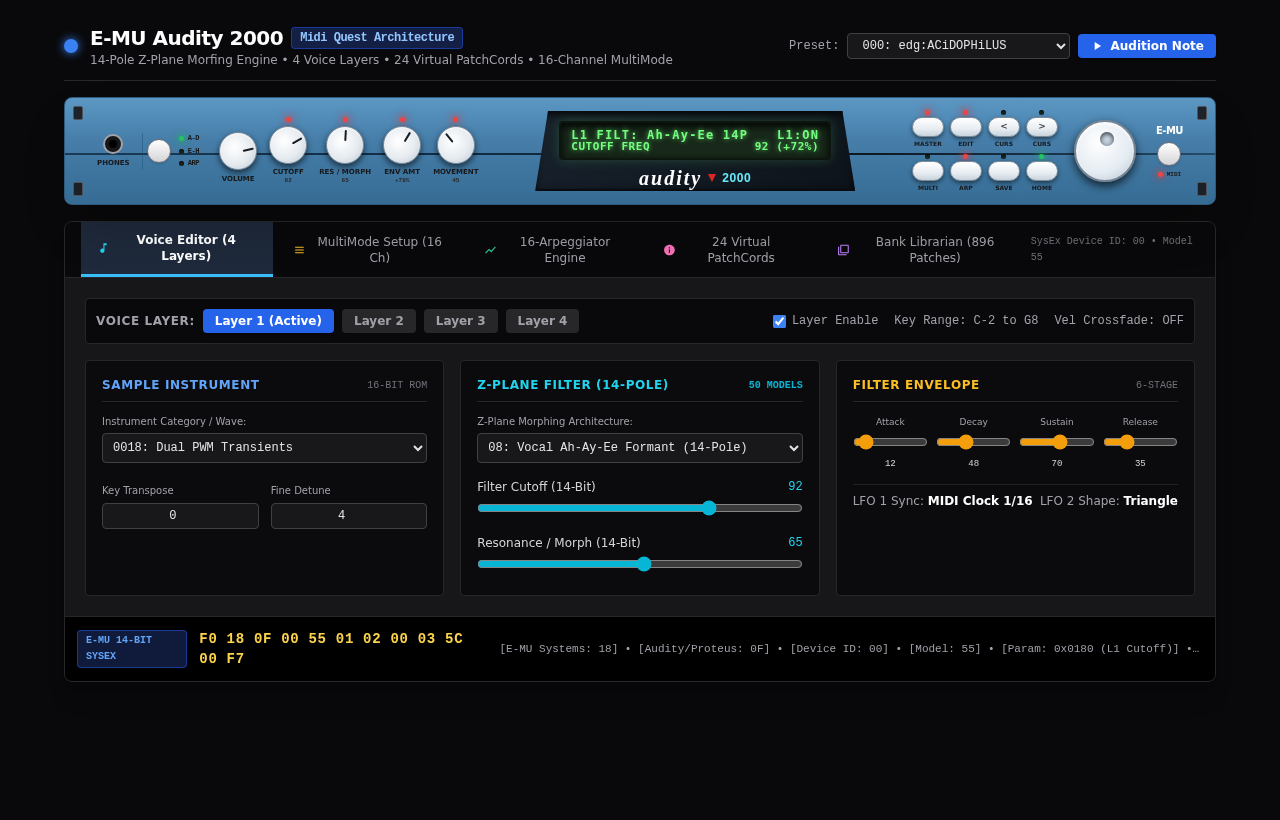
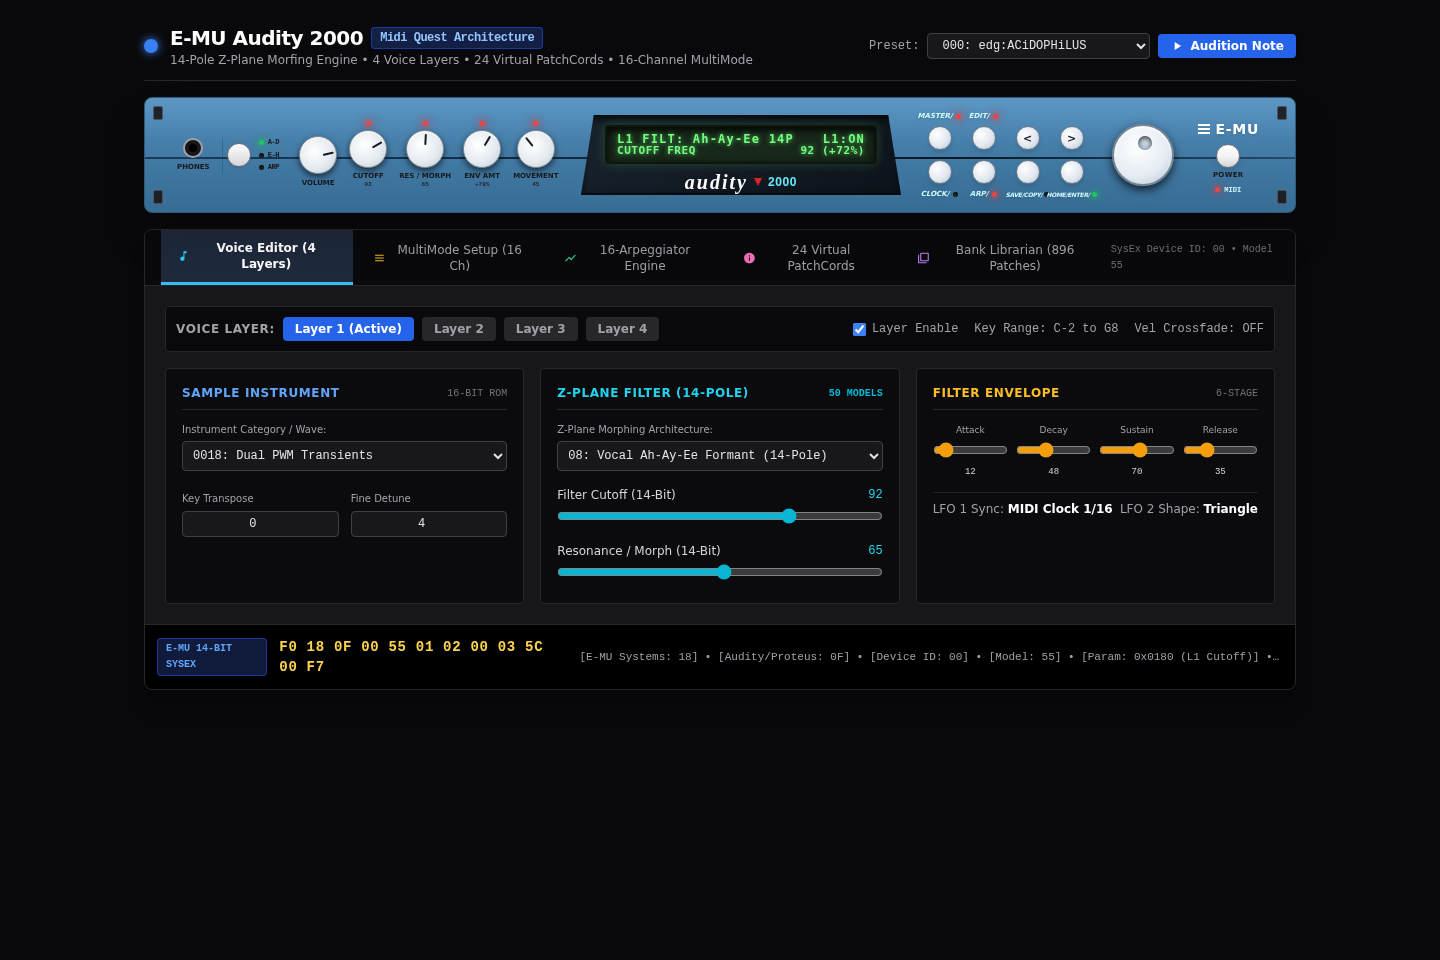
Fix Audity 2000 button matrix geometry, alignment, labels, and LEDs to match hardware reference photos

diff --git a/preview/audity_2000.html b/preview/audity_2000.html
@@ -99,6 +99,25 @@
       left: 24px;
     }
 
+    /* Tactile Round White Dome Buttons (Matching SOS reference photo) */
+    .audity-round-btn {
+      width: 24px;
+      height: 24px;
+      border-radius: 50%;
+      background: radial-gradient(circle at 35% 35%, #ffffff 0%, #e2e8f0 55%, #b4c2ce 100%);
+      border: 1px solid #6b7a88;
+      box-shadow: 0 3px 5px rgba(0,0,0,0.6), inset 0 1px 1.5px rgba(255,255,255,0.95);
+      transition: all 0.08s ease;
+      cursor: pointer;
+      user-select: none;
+      z-index: 2;
+    }
+    .audity-round-btn:active {
+      transform: translateY(1px);
+      box-shadow: inset 0 2px 4px rgba(0,0,0,0.7);
+      background: #a8b8c6;
+    }
+
     /* Tactile Oval White Buttons */
     .audity-btn {
       width: 32px;
@@ -286,70 +305,114 @@
     </div>
 
     <!-- RIGHT SECTION: NAVIGATION BUTTONS, ROTARY DATA WHEEL, POWER SWITCH -->
-    <div class="flex items-center gap-3 pr-4 z-10">
+    <div class="flex items-center gap-4 pr-5 z-10">
       
-      <!-- 8 Tactile Buttons (2 rows of 4) -->
-      <div class="grid grid-cols-4 gap-1.5">
-        <!-- Row 1 -->
-        <div class="flex flex-col items-center">
-          <div class="led-dot led-red-on mb-0.5"></div>
-          <button onclick="switchAudityTab('voice')" class="audity-btn"></button>
-          <span class="text-[6px] font-bold uppercase text-zinc-900 mt-0.5">MASTER</span>
-        </div>
-        <div class="flex flex-col items-center">
-          <div class="led-dot led-red-on mb-0.5"></div>
-          <button onclick="switchAudityTab('voice')" class="audity-btn"></button>
-          <span class="text-[6px] font-bold uppercase text-zinc-900 mt-0.5">EDIT</span>
-        </div>
-        <div class="flex flex-col items-center">
-          <div class="led-dot led-off mb-0.5"></div>
-          <button onclick="cursorBump(-1)" class="audity-btn flex items-center justify-center font-bold text-zinc-700 text-[9px]">&lt;</button>
-          <span class="text-[6px] font-bold uppercase text-zinc-900 mt-0.5">CURS</span>
-        </div>
-        <div class="flex flex-col items-center">
-          <div class="led-dot led-off mb-0.5"></div>
-          <button onclick="cursorBump(1)" class="audity-btn flex items-center justify-center font-bold text-zinc-700 text-[9px]">&gt;</button>
-          <span class="text-[6px] font-bold uppercase text-zinc-900 mt-0.5">CURS</span>
+      <!-- 8 Tactile Buttons (4 columns x 2 perfectly leveled rows matching SOS hardware photo) -->
+      <div class="flex flex-col gap-2.5">
+        
+        <!-- ROW 1 (TOP) -->
+        <div class="flex items-center gap-3">
+          <!-- MASTER / [LED] -->
+          <div class="flex flex-col items-center w-8">
+            <div class="flex items-center gap-1 mb-1 h-3">
+              <span class="text-[7px] font-bold italic font-sans text-cyan-100 drop-shadow">MASTER/</span>
+              <div class="led-dot led-red-on"></div>
+            </div>
+            <button onclick="switchAudityTab('voice')" class="audity-round-btn shadow-md active:translate-y-0.5" title="Master Mode"></button>
+          </div>
+
+          <!-- EDIT / [LED] -->
+          <div class="flex flex-col items-center w-8">
+            <div class="flex items-center gap-1 mb-1 h-3">
+              <span class="text-[7px] font-bold italic font-sans text-cyan-100 drop-shadow">EDIT/</span>
+              <div class="led-dot led-red-on"></div>
+            </div>
+            <button onclick="switchAudityTab('voice')" class="audity-round-btn shadow-md active:translate-y-0.5" title="Edit Parameters"></button>
+          </div>
+
+          <!-- < CURSOR (No LED, printed on button) -->
+          <div class="flex flex-col items-center w-8">
+            <div class="h-3 mb-1"></div>
+            <button onclick="cursorBump(-1)" class="audity-round-btn shadow-md active:translate-y-0.5 flex items-center justify-center font-bold text-zinc-800 text-[11px] leading-none select-none" title="Cursor Left">&lt;</button>
+          </div>
+
+          <!-- > CURSOR (No LED, printed on button) -->
+          <div class="flex flex-col items-center w-8">
+            <div class="h-3 mb-1"></div>
+            <button onclick="cursorBump(1)" class="audity-round-btn shadow-md active:translate-y-0.5 flex items-center justify-center font-bold text-zinc-800 text-[11px] leading-none select-none" title="Cursor Right">&gt;</button>
+          </div>
         </div>
 
-        <!-- Row 2 -->
-        <div class="flex flex-col items-center">
-          <div class="led-dot led-off mb-0.5"></div>
-          <button onclick="switchAudityTab('multimode')" class="audity-btn"></button>
-          <span class="text-[6px] font-bold uppercase text-zinc-900 mt-0.5">MULTI</span>
+        <!-- ROW 2 (BOTTOM) -->
+        <div class="flex items-center gap-3">
+          <!-- CLOCK / [LED] -->
+          <div class="flex flex-col items-center w-8">
+            <button onclick="switchAudityTab('multimode')" class="audity-round-btn shadow-md active:translate-y-0.5" title="Clock"></button>
+            <div class="flex items-center gap-1 mt-1 h-3">
+              <span class="text-[7px] font-bold italic font-sans text-cyan-100 drop-shadow">CLOCK/</span>
+              <div class="led-dot led-off"></div>
+            </div>
+          </div>
+
+          <!-- ARP / [LED] -->
+          <div class="flex flex-col items-center w-8">
+            <button onclick="switchAudityTab('arp')" class="audity-round-btn shadow-md active:translate-y-0.5" title="Arpeggiator"></button>
+            <div class="flex items-center gap-1 mt-1 h-3">
+              <span class="text-[7px] font-bold italic font-sans text-cyan-100 drop-shadow">ARP/</span>
+              <div class="led-dot led-red-on"></div>
+            </div>
+          </div>
+
+          <!-- SAVE/COPY / [LED] -->
+          <div class="flex flex-col items-center w-8">
+            <button onclick="switchAudityTab('librarian')" class="audity-round-btn shadow-md active:translate-y-0.5" title="Save / Copy"></button>
+            <div class="flex items-center gap-0.5 mt-1 h-3">
+              <span class="text-[6px] font-bold italic font-sans text-cyan-100 tracking-tighter drop-shadow">SAVE/COPY/</span>
+              <div class="led-dot led-off"></div>
+            </div>
+          </div>
+
+          <!-- HOME/ENTER / [GREEN LED] -->
+          <div class="flex flex-col items-center w-8">
+            <button onclick="switchAudityTab('voice')" class="audity-round-btn shadow-md active:translate-y-0.5" title="Home / Enter"></button>
+            <div class="flex items-center gap-0.5 mt-1 h-3">
+              <span class="text-[6px] font-bold italic font-sans text-cyan-100 tracking-tighter drop-shadow">HOME/ENTER/</span>
+              <div class="led-dot led-green-on"></div>
+            </div>
+          </div>
         </div>
-        <div class="flex flex-col items-center">
-          <div class="led-dot led-red-on mb-0.5"></div>
-          <button onclick="switchAudityTab('arp')" class="audity-btn"></button>
-          <span class="text-[6px] font-bold uppercase text-zinc-900 mt-0.5">ARP</span>
-        </div>
-        <div class="flex flex-col items-center">
-          <div class="led-dot led-off mb-0.5"></div>
-          <button onclick="switchAudityTab('librarian')" class="audity-btn"></button>
-          <span class="text-[6px] font-bold uppercase text-zinc-900 mt-0.5">SAVE</span>
-        </div>
-        <div class="flex flex-col items-center">
-          <div class="led-dot led-green-on mb-0.5"></div>
-          <button onclick="switchAudityTab('voice')" class="audity-btn"></button>
-          <span class="text-[6px] font-bold uppercase text-zinc-900 mt-0.5">HOME</span>
-        </div>
+
       </div>
 
       <!-- Large Rotary Jog/Data Wheel -->
-      <div class="flex flex-col items-center pl-1">
-        <div class="audity-data-wheel" onclick="rotateDataWheel(1)">
+      <div class="flex flex-col items-center pl-2">
+        <div class="audity-data-wheel" onclick="rotateDataWheel(1)" title="Rotate Data Wheel">
           <div class="audity-dimple"></div>
         </div>
       </div>
 
-      <!-- Power Button & E-MU Logo -->
-      <div class="flex flex-col items-center pl-2">
-        <div class="flex items-center gap-1 mb-1">
-          <span class="text-[10px] font-black tracking-tighter text-white font-sans">E-MU</span>
+      <!-- Power Button & E-MU Logo Section -->
+      <div class="flex flex-col items-center justify-between h-20 pl-2">
+        <!-- E-MU Logo with horizontal bars -->
+        <div class="flex items-center gap-1.5 pt-1">
+          <div class="flex flex-col gap-0.5">
+            <div class="w-3 h-0.5 bg-white"></div>
+            <div class="w-3 h-0.5 bg-white"></div>
+            <div class="w-3 h-0.5 bg-white"></div>
+          </div>
+          <span class="text-sm font-black tracking-wider text-white font-sans drop-shadow">E-MU</span>
         </div>
-        <button class="w-6 h-6 rounded-full bg-gradient-to-b from-white to-zinc-300 border border-zinc-500 shadow active:scale-95"></button>
-        <div class="flex items-center gap-1 mt-1 text-[6px] font-bold text-zinc-900 font-mono">
-          <div class="led-dot led-red-on"></div> MIDI
+
+        <!-- Power Button -->
+        <div class="flex flex-col items-center">
+          <button class="w-6 h-6 rounded-full bg-gradient-to-b from-white via-zinc-100 to-zinc-300 border border-zinc-500 shadow-md active:translate-y-0.5 flex items-center justify-center" title="Power Switch"></button>
+          <span class="text-[7px] font-bold uppercase tracking-wider text-zinc-900 mt-0.5">POWER</span>
+        </div>
+
+        <!-- MIDI Activity LED -->
+        <div class="flex items-center gap-1 text-[7px] font-bold font-mono text-cyan-100">
+          <div class="led-dot led-red-on animate-pulse"></div>
+          <span>MIDI</span>
         </div>
       </div>
 
